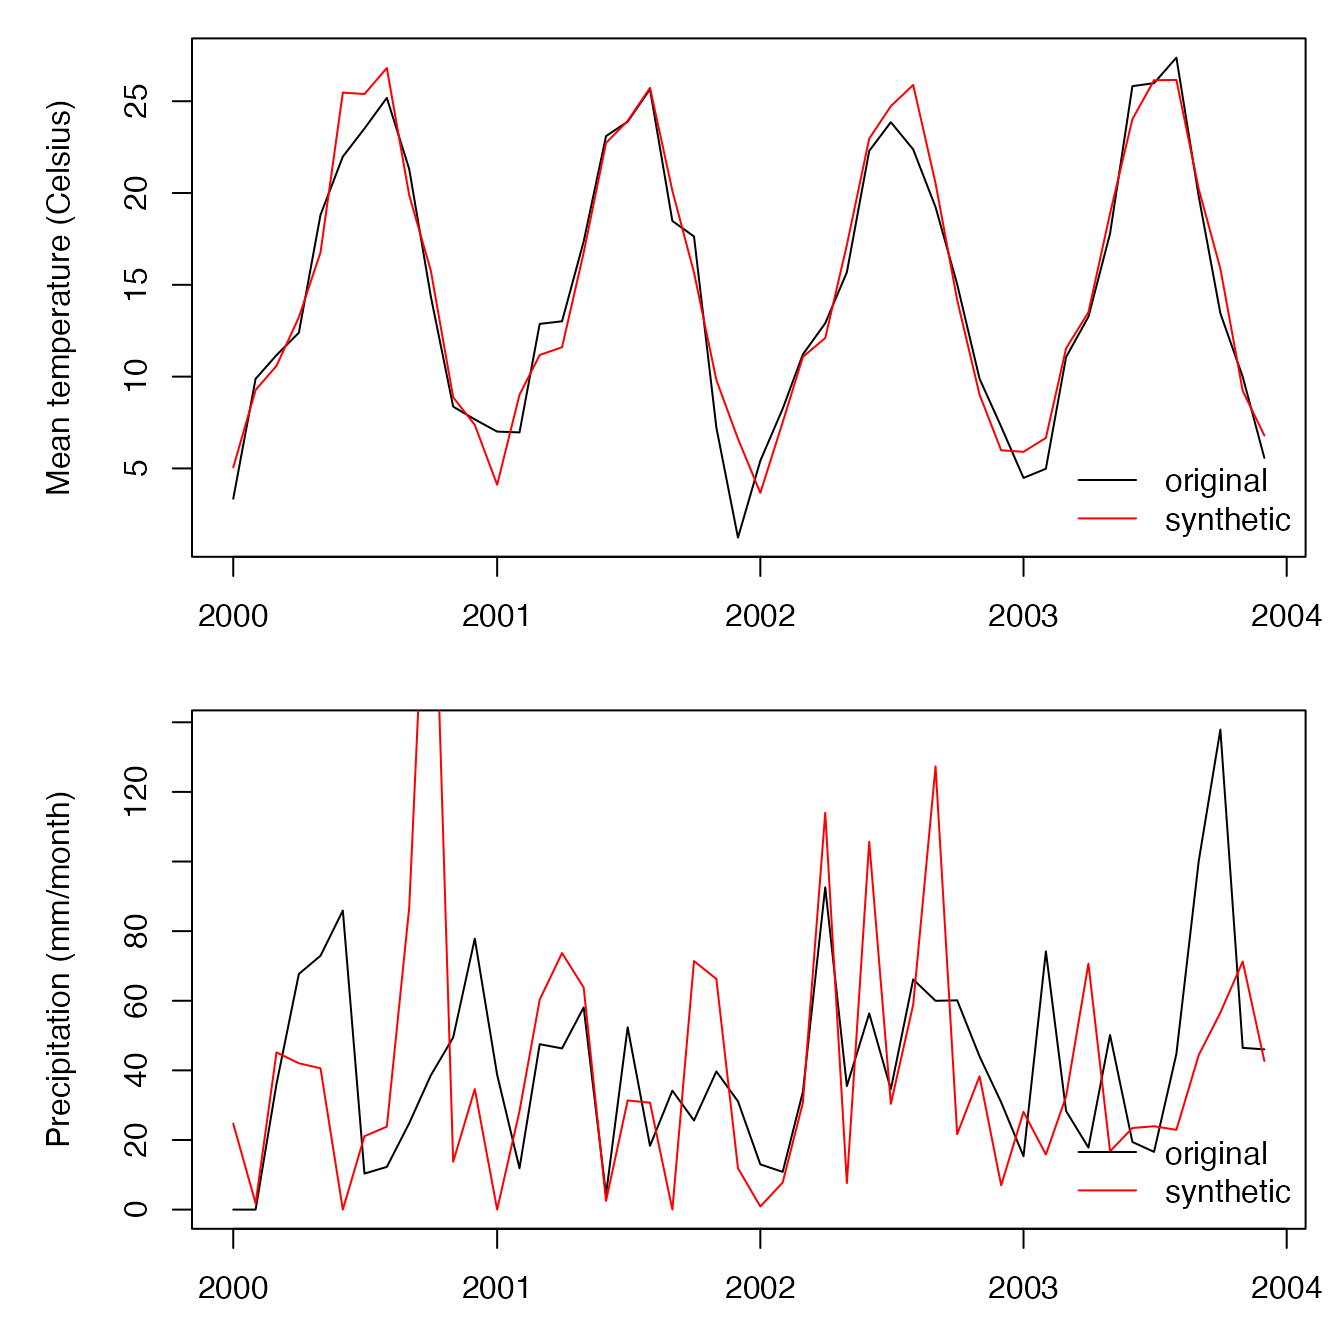
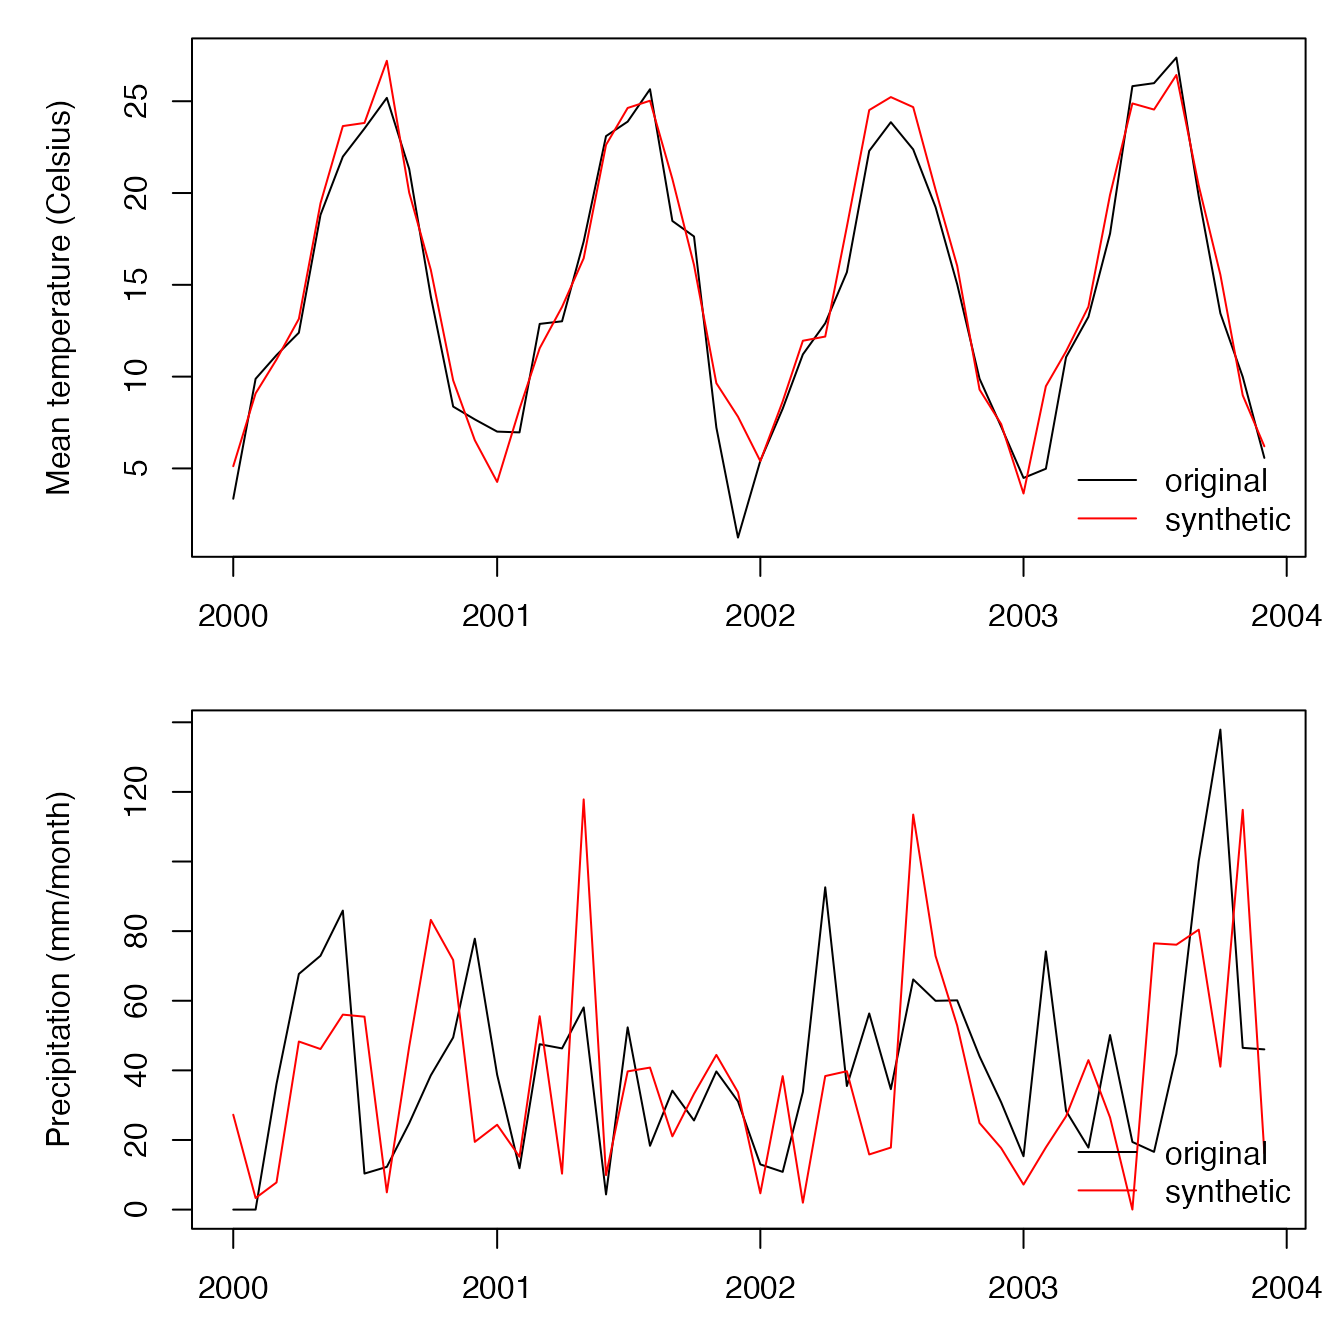
Built site for meteoland: 1.0.3.9000@6e4ce17

diff --git a/articles/reshaping-meteo.html b/articles/reshaping-meteo.html
@@ -146,21 +146,21 @@
 <span><span class="co">#&gt; <span style="color: #949494;"># A tibble: 15 × 7</span></span></span>
 <span><span class="co">#&gt;    date       station latitude longitude min_temp max_temp    rh</span></span>
 <span><span class="co">#&gt;    <span style="color: #949494; font-style: italic;">&lt;date&gt;</span>     <span style="color: #949494; font-style: italic;">&lt;chr&gt;</span>      <span style="color: #949494; font-style: italic;">&lt;dbl&gt;</span>     <span style="color: #949494; font-style: italic;">&lt;dbl&gt;</span>    <span style="color: #949494; font-style: italic;">&lt;dbl&gt;</span>    <span style="color: #949494; font-style: italic;">&lt;dbl&gt;</span> <span style="color: #949494; font-style: italic;">&lt;dbl&gt;</span></span></span>
-<span><span class="co">#&gt; <span style="color: #BCBCBC;"> 1</span> 2022-12-01 a           41.4     -<span style="color: #BB0000;">0.33</span>    10.6      19.8  51.6</span></span>
-<span><span class="co">#&gt; <span style="color: #BCBCBC;"> 2</span> 2022-12-02 a           41.4     -<span style="color: #BB0000;">0.33</span>    11.4      28.6  29.3</span></span>
-<span><span class="co">#&gt; <span style="color: #BCBCBC;"> 3</span> 2022-12-03 a           41.4     -<span style="color: #BB0000;">0.33</span>    12.8      21.2  39.1</span></span>
-<span><span class="co">#&gt; <span style="color: #BCBCBC;"> 4</span> 2022-12-04 a           41.4     -<span style="color: #BB0000;">0.33</span>     3.32     15.8  46.7</span></span>
-<span><span class="co">#&gt; <span style="color: #BCBCBC;"> 5</span> 2022-12-05 a           41.4     -<span style="color: #BB0000;">0.33</span>     3.40     13.9  46.9</span></span>
-<span><span class="co">#&gt; <span style="color: #BCBCBC;"> 6</span> 2022-12-01 b           40.1      0.12    15.8      26.1  20  </span></span>
-<span><span class="co">#&gt; <span style="color: #BCBCBC;"> 7</span> 2022-12-02 b           40.1      0.12     7.45     18.2  25.8</span></span>
-<span><span class="co">#&gt; <span style="color: #BCBCBC;"> 8</span> 2022-12-03 b           40.1      0.12     3.19     16.7  37.4</span></span>
-<span><span class="co">#&gt; <span style="color: #BCBCBC;"> 9</span> 2022-12-04 b           40.1      0.12    12.5      18.5  36.0</span></span>
-<span><span class="co">#&gt; <span style="color: #BCBCBC;">10</span> 2022-12-05 b           40.1      0.12    11.0      18.1  64.9</span></span>
-<span><span class="co">#&gt; <span style="color: #BCBCBC;">11</span> 2022-12-01 c           42        1.12    11.5      18.1  40.6</span></span>
-<span><span class="co">#&gt; <span style="color: #BCBCBC;">12</span> 2022-12-02 c           42        1.12     6.53     16.1  73.1</span></span>
-<span><span class="co">#&gt; <span style="color: #BCBCBC;">13</span> 2022-12-03 c           42        1.12     6.36     17.9  81.9</span></span>
-<span><span class="co">#&gt; <span style="color: #BCBCBC;">14</span> 2022-12-04 c           42        1.12     4.58     18.7  45.3</span></span>
-<span><span class="co">#&gt; <span style="color: #BCBCBC;">15</span> 2022-12-05 c           42        1.12     4.28     13.4  35.7</span></span></code></pre></div>
+<span><span class="co">#&gt; <span style="color: #BCBCBC;"> 1</span> 2022-12-01 a           41.4     -<span style="color: #BB0000;">0.33</span>     2.00     12.9  66.8</span></span>
+<span><span class="co">#&gt; <span style="color: #BCBCBC;"> 2</span> 2022-12-02 a           41.4     -<span style="color: #BB0000;">0.33</span>    17.7      24.2  20.2</span></span>
+<span><span class="co">#&gt; <span style="color: #BCBCBC;"> 3</span> 2022-12-03 a           41.4     -<span style="color: #BB0000;">0.33</span>    12.7      24.3  36.6</span></span>
+<span><span class="co">#&gt; <span style="color: #BCBCBC;"> 4</span> 2022-12-04 a           41.4     -<span style="color: #BB0000;">0.33</span>     6.97     16.7  55.4</span></span>
+<span><span class="co">#&gt; <span style="color: #BCBCBC;"> 5</span> 2022-12-05 a           41.4     -<span style="color: #BB0000;">0.33</span>    12.4      23.3  47.4</span></span>
+<span><span class="co">#&gt; <span style="color: #BCBCBC;"> 6</span> 2022-12-01 b           40.1      0.12    12.7      17.8  52.9</span></span>
+<span><span class="co">#&gt; <span style="color: #BCBCBC;"> 7</span> 2022-12-02 b           40.1      0.12     9.73     11.2  69.6</span></span>
+<span><span class="co">#&gt; <span style="color: #BCBCBC;"> 8</span> 2022-12-03 b           40.1      0.12     9.06     23.8  36.8</span></span>
+<span><span class="co">#&gt; <span style="color: #BCBCBC;"> 9</span> 2022-12-04 b           40.1      0.12    13.4      20.1  58.0</span></span>
+<span><span class="co">#&gt; <span style="color: #BCBCBC;">10</span> 2022-12-05 b           40.1      0.12     5.93     16.5  51.6</span></span>
+<span><span class="co">#&gt; <span style="color: #BCBCBC;">11</span> 2022-12-01 c           42        1.12     6.76     10.0  20  </span></span>
+<span><span class="co">#&gt; <span style="color: #BCBCBC;">12</span> 2022-12-02 c           42        1.12    17.4      27.6  30.3</span></span>
+<span><span class="co">#&gt; <span style="color: #BCBCBC;">13</span> 2022-12-03 c           42        1.12     8.99     15.6  76.5</span></span>
+<span><span class="co">#&gt; <span style="color: #BCBCBC;">14</span> 2022-12-04 c           42        1.12    16.8      25.2  72.2</span></span>
+<span><span class="co">#&gt; <span style="color: #BCBCBC;">15</span> 2022-12-05 c           42        1.12     7.18     17.0  29.3</span></span></code></pre></div>
 <div class="sourceCode" id="cb5"><pre class="downlit sourceCode r">
 <code class="sourceCode R"><span><span class="va">ready_meteo</span> <span class="op">&lt;-</span> <span class="va">unformatted_meteo</span> <span class="op">|&gt;</span></span>
 <span>  <span class="co"># convert names to correct ones</span></span>
@@ -184,21 +184,21 @@
 <span><span class="co">#&gt; <span style="color: #949494;"># A tibble: 15 × 9</span></span></span>
 <span><span class="co">#&gt;    date       station min_temp max_temp    rh MinTemperature MaxTemper…¹ MeanR…²</span></span>
 <span><span class="co">#&gt;  <span style="color: #BCBCBC;">*</span> <span style="color: #949494; font-style: italic;">&lt;date&gt;</span>     <span style="color: #949494; font-style: italic;">&lt;chr&gt;</span>      <span style="color: #949494; font-style: italic;">&lt;dbl&gt;</span>    <span style="color: #949494; font-style: italic;">&lt;dbl&gt;</span> <span style="color: #949494; font-style: italic;">&lt;dbl&gt;</span>          <span style="color: #949494; font-style: italic;">&lt;dbl&gt;</span>       <span style="color: #949494; font-style: italic;">&lt;dbl&gt;</span>   <span style="color: #949494; font-style: italic;">&lt;dbl&gt;</span></span></span>
-<span><span class="co">#&gt; <span style="color: #BCBCBC;"> 1</span> 2022-12-01 a          10.6      19.8  51.6          10.6         19.8    51.6</span></span>
-<span><span class="co">#&gt; <span style="color: #BCBCBC;"> 2</span> 2022-12-02 a          11.4      28.6  29.3          11.4         28.6    29.3</span></span>
-<span><span class="co">#&gt; <span style="color: #BCBCBC;"> 3</span> 2022-12-03 a          12.8      21.2  39.1          12.8         21.2    39.1</span></span>
-<span><span class="co">#&gt; <span style="color: #BCBCBC;"> 4</span> 2022-12-04 a           3.32     15.8  46.7           3.32        15.8    46.7</span></span>
-<span><span class="co">#&gt; <span style="color: #BCBCBC;"> 5</span> 2022-12-05 a           3.40     13.9  46.9           3.40        13.9    46.9</span></span>
-<span><span class="co">#&gt; <span style="color: #BCBCBC;"> 6</span> 2022-12-01 b          15.8      26.1  20            15.8         26.1    20  </span></span>
-<span><span class="co">#&gt; <span style="color: #BCBCBC;"> 7</span> 2022-12-02 b           7.45     18.2  25.8           7.45        18.2    25.8</span></span>
-<span><span class="co">#&gt; <span style="color: #BCBCBC;"> 8</span> 2022-12-03 b           3.19     16.7  37.4           3.19        16.7    37.4</span></span>
-<span><span class="co">#&gt; <span style="color: #BCBCBC;"> 9</span> 2022-12-04 b          12.5      18.5  36.0          12.5         18.5    36.0</span></span>
-<span><span class="co">#&gt; <span style="color: #BCBCBC;">10</span> 2022-12-05 b          11.0      18.1  64.9          11.0         18.1    64.9</span></span>
-<span><span class="co">#&gt; <span style="color: #BCBCBC;">11</span> 2022-12-01 c          11.5      18.1  40.6          11.5         18.1    40.6</span></span>
-<span><span class="co">#&gt; <span style="color: #BCBCBC;">12</span> 2022-12-02 c           6.53     16.1  73.1           6.53        16.1    73.1</span></span>
-<span><span class="co">#&gt; <span style="color: #BCBCBC;">13</span> 2022-12-03 c           6.36     17.9  81.9           6.36        17.9    81.9</span></span>
-<span><span class="co">#&gt; <span style="color: #BCBCBC;">14</span> 2022-12-04 c           4.58     18.7  45.3           4.58        18.7    45.3</span></span>
-<span><span class="co">#&gt; <span style="color: #BCBCBC;">15</span> 2022-12-05 c           4.28     13.4  35.7           4.28        13.4    35.7</span></span>
+<span><span class="co">#&gt; <span style="color: #BCBCBC;"> 1</span> 2022-12-01 a           2.00     12.9  66.8           2.00        12.9    66.8</span></span>
+<span><span class="co">#&gt; <span style="color: #BCBCBC;"> 2</span> 2022-12-02 a          17.7      24.2  20.2          17.7         24.2    20.2</span></span>
+<span><span class="co">#&gt; <span style="color: #BCBCBC;"> 3</span> 2022-12-03 a          12.7      24.3  36.6          12.7         24.3    36.6</span></span>
+<span><span class="co">#&gt; <span style="color: #BCBCBC;"> 4</span> 2022-12-04 a           6.97     16.7  55.4           6.97        16.7    55.4</span></span>
+<span><span class="co">#&gt; <span style="color: #BCBCBC;"> 5</span> 2022-12-05 a          12.4      23.3  47.4          12.4         23.3    47.4</span></span>
+<span><span class="co">#&gt; <span style="color: #BCBCBC;"> 6</span> 2022-12-01 b          12.7      17.8  52.9          12.7         17.8    52.9</span></span>
+<span><span class="co">#&gt; <span style="color: #BCBCBC;"> 7</span> 2022-12-02 b           9.73     11.2  69.6           9.73        11.2    69.6</span></span>
+<span><span class="co">#&gt; <span style="color: #BCBCBC;"> 8</span> 2022-12-03 b           9.06     23.8  36.8           9.06        23.8    36.8</span></span>
+<span><span class="co">#&gt; <span style="color: #BCBCBC;"> 9</span> 2022-12-04 b          13.4      20.1  58.0          13.4         20.1    58.0</span></span>
+<span><span class="co">#&gt; <span style="color: #BCBCBC;">10</span> 2022-12-05 b           5.93     16.5  51.6           5.93        16.5    51.6</span></span>
+<span><span class="co">#&gt; <span style="color: #BCBCBC;">11</span> 2022-12-01 c           6.76     10.0  20             6.76        10.0    20  </span></span>
+<span><span class="co">#&gt; <span style="color: #BCBCBC;">12</span> 2022-12-02 c          17.4      27.6  30.3          17.4         27.6    30.3</span></span>
+<span><span class="co">#&gt; <span style="color: #BCBCBC;">13</span> 2022-12-03 c           8.99     15.6  76.5           8.99        15.6    76.5</span></span>
+<span><span class="co">#&gt; <span style="color: #BCBCBC;">14</span> 2022-12-04 c          16.8      25.2  72.2          16.8         25.2    72.2</span></span>
+<span><span class="co">#&gt; <span style="color: #BCBCBC;">15</span> 2022-12-05 c           7.18     17.0  29.3           7.18        17.0    29.3</span></span>
 <span><span class="co">#&gt; <span style="color: #949494;"># … with 1 more variable: geometry &lt;POINT [°]&gt;, and abbreviated variable names</span></span></span>
 <span><span class="co">#&gt; <span style="color: #949494;">#   ¹MaxTemperature, ²MeanRelativeHumidity</span></span></span></code></pre></div>
 <p>And <em>voilà</em>, we have our meteo data in the correct format</p>

diff --git a/reference/weathergeneration.html b/reference/weathergeneration.html
@@ -163,9 +163,9 @@ doi:10.1002/wrcr.20528.</p>
 <span class="r-out co"><span class="r-pr">#&gt;</span> Generating weather series...</span>
 <span class="r-out co"><span class="r-pr">#&gt;</span> </span>
 <span class="r-out co"><span class="r-pr">#&gt;</span> Annual precipitation stats: </span>
-<span class="r-out co"><span class="r-pr">#&gt;</span>               average        sd</span>
-<span class="r-out co"><span class="r-pr">#&gt;</span> input/target 456.1522  83.63653</span>
-<span class="r-out co"><span class="r-pr">#&gt;</span> simulated    450.0040 122.02284</span>
+<span class="r-out co"><span class="r-pr">#&gt;</span>               average       sd</span>
+<span class="r-out co"><span class="r-pr">#&gt;</span> input/target 456.1522 83.63653</span>
+<span class="r-out co"><span class="r-pr">#&gt;</span> simulated    456.1522 72.93733</span>
 <span class="r-in"><span></span></span>
 <span class="r-in"><span><span class="co">#Plot generated meteorological series</span></span></span>
 <span class="r-in"><span><span class="fu"><a href="meteoplot.html">meteoplot</a></span><span class="op">(</span><span class="va">y</span>,<span class="fl">1</span>, ylab<span class="op">=</span><span class="st">"Mean temperature"</span><span class="op">)</span></span></span>
